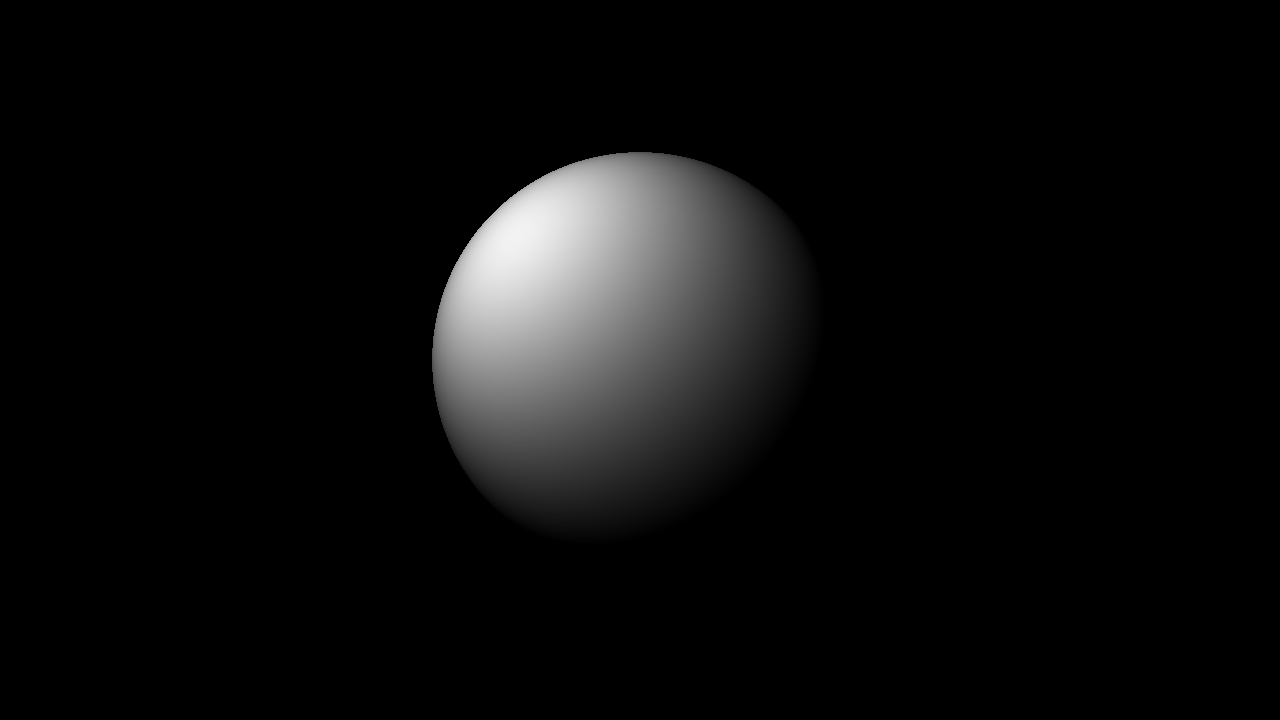
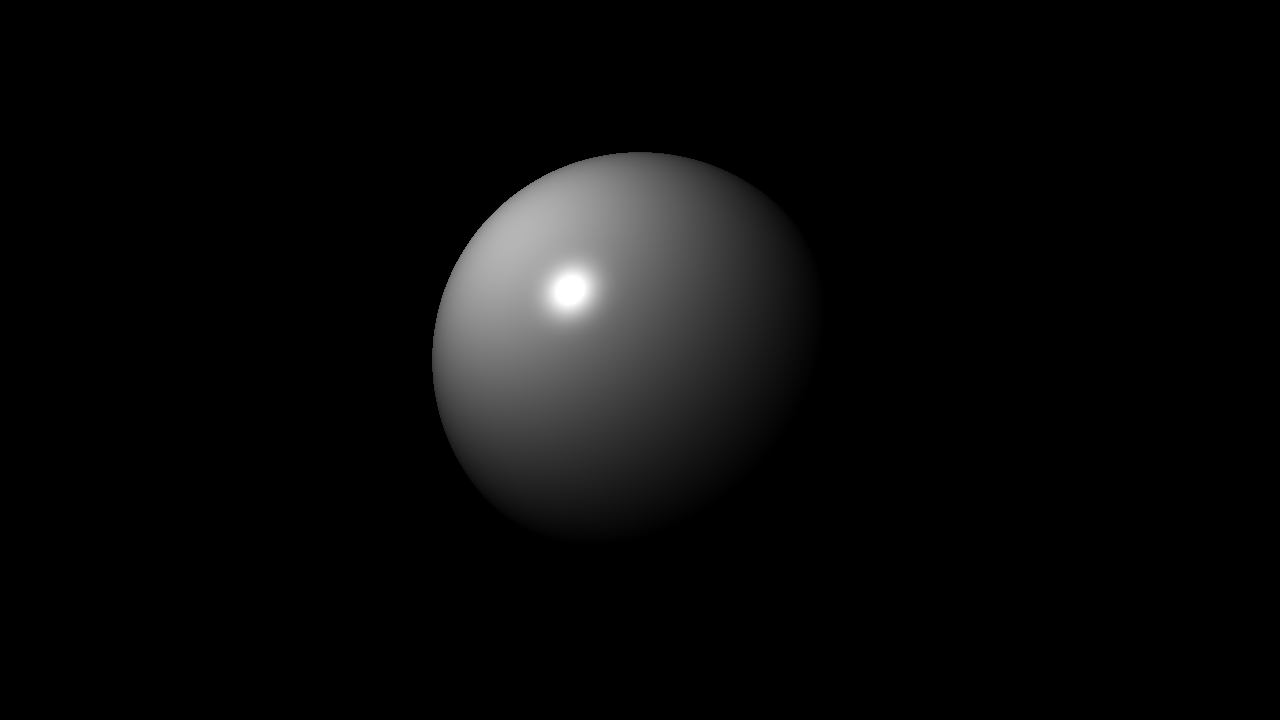
readme: updated

Changed region(s): [[0.3125, 0.2139, 0.5625, 0.6111]]

diff --git a/README.md b/README.md
@@ -40,22 +40,25 @@ TBD...
             "pos": [0, 0, 0],
             "r": 0.5,
             "mat": {
-                "albedo": [1, 1, 1]
+                "albedo": [0.3, 0.3, 0.3],
+                "rough": 0.5,
+                "metal": 0
             }
         }
     ],
     "light": [
         {
             "pos": [-0.5, -1, 0.5],
-            "pwr": 0.5,
+            "pwr": 0.8,
             "color": [1, 0, 0]
         },
         {
             "pos": [0.5, -1, 0.5],
-            "pwr": 0.5,
+            "pwr": 0.8,
             "color": [0, 0, 1]
         }
-    ]
+    ],
+    "sky": [0, 0, 0]
 }
 ```
 
